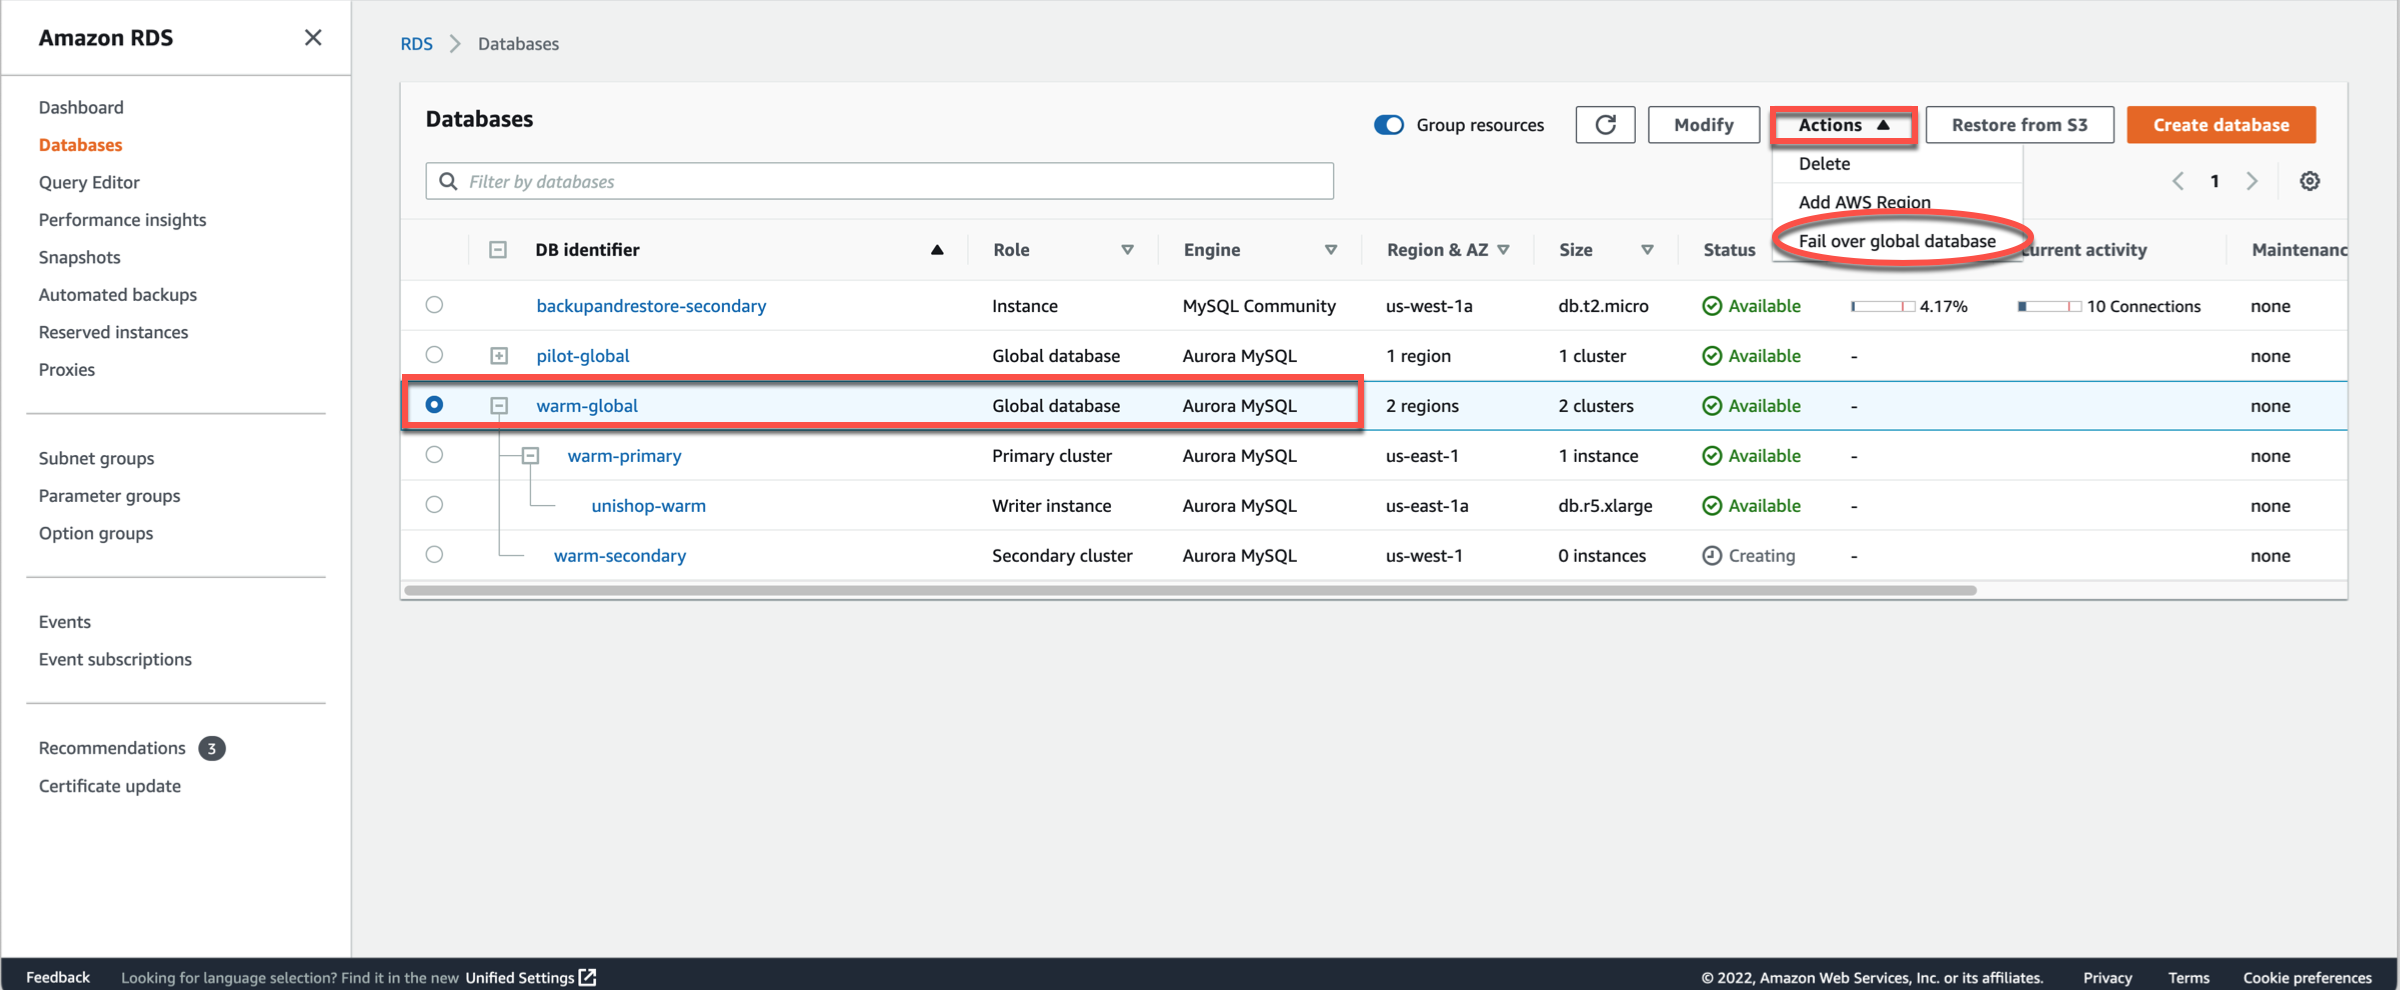
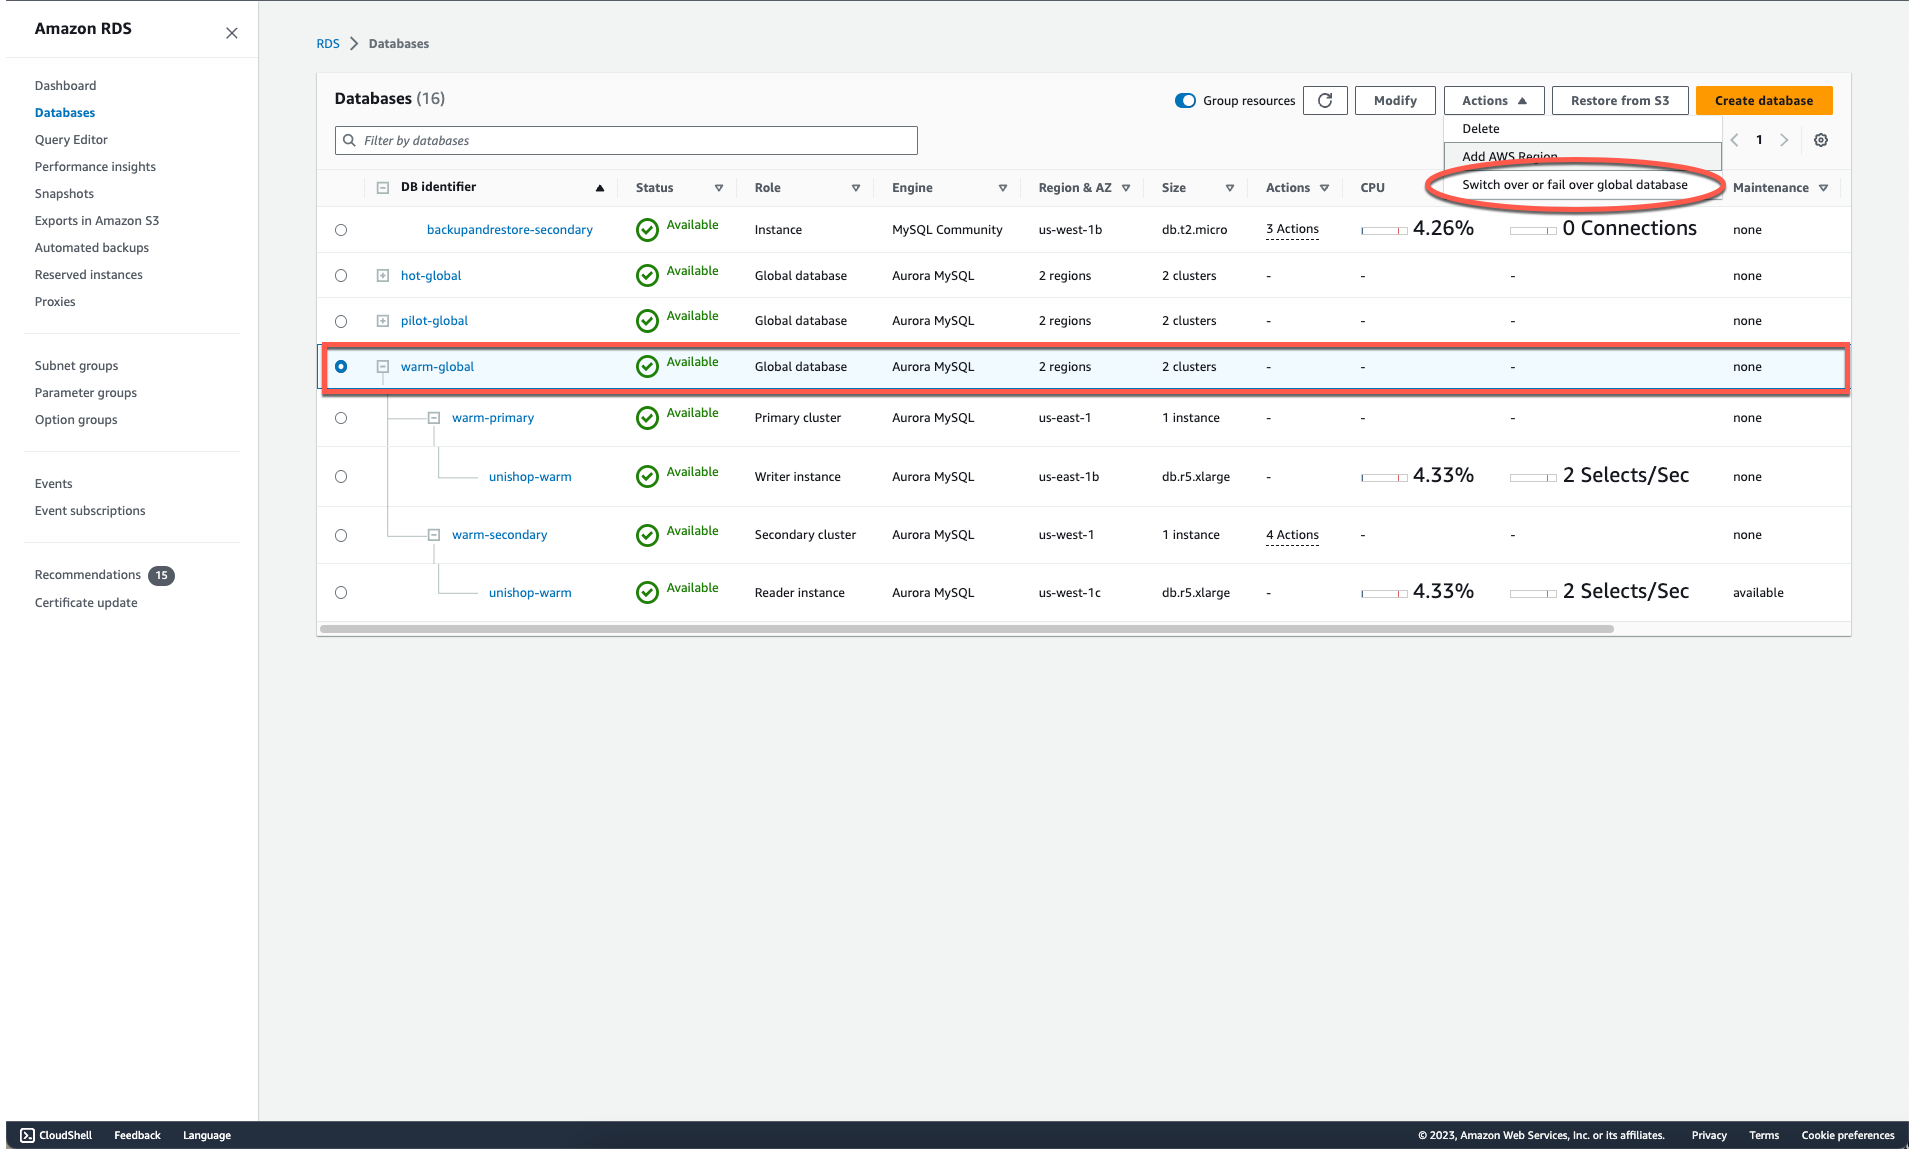
Warm Standby updates

diff --git a/content/Reliability/Disaster Recovery/Workshop_3/3-failover/3.1-aurora/_index.en.md b/content/Reliability/Disaster Recovery/Workshop_3/3-failover/3.1-aurora/_index.en.md
@@ -8,13 +8,13 @@ weight = 1
 
 With an Aurora global database, there are two different approaches to failover depending on the scenario.  
 
-**Manual unplanned failover ("detach and promote")** – To recover from an unplanned outage or to do disaster recovery (DR) testing, perform a cross-Region failover to one of the secondaries in your Aurora global database. The RTO for this manual process depends on how quickly you can perform the tasks listed in [Recovering an Amazon Aurora global database from an unplanned outage](https://docs.aws.amazon.com/AmazonRDS/latest/AuroraUserGuide/aurora-global-database-disaster-recovery.html#aurora-global-database-failover). The RPO is typically measured in seconds, but this depends on the Aurora storage replication lag across the network at the time of the failure.
+**Failover** – Use this approach to recover from an unplanned outage. With this approach, you perform a cross-Region failover to one of the secondary DB clusters in your Aurora global database. The RPO for this approach is typically a non-zero value measured in seconds. The amount of data loss depends on the Aurora global database replication lag across the AWS Regions at the time of the failure. To learn more, see [Recovering an Amazon Aurora global database from an unplanned outage](https://docs.aws.amazon.com/AmazonRDS/latest/AuroraUserGuide/aurora-global-database-disaster-recovery.html#aurora-global-database-failover).
 
-**Managed planned failover** – This feature is intended for controlled environments, such as operational maintenance and other planned operational procedures. By using managed planned failover, you can relocate the primary DB cluster of your Aurora global database to one of the secondary Regions. Because this feature synchronizes secondary DB clusters with the primary before making any other changes, RPO is 0 (no data loss). To learn more, see [Performing managed planned failovers for Amazon Aurora global databases](https://docs.aws.amazon.com/AmazonRDS/latest/AuroraUserGuide/aurora-global-database-disaster-recovery.html#aurora-global-database-disaster-recovery.managed-failover).
+**Switchover** – This operation was previously called "managed planned failover." Use this approach for controlled scenarios, such as operational maintenance and other planned operational procedures. Because this feature synchronizes secondary DB clusters with the primary before making any other changes, RPO is 0 (no data loss). To learn more, see [Performing switchovers for Amazon Aurora global databases](https://docs.aws.amazon.com/AmazonRDS/latest/AuroraUserGuide/aurora-global-database-disaster-recovery.html#aurora-global-database-disaster-recovery.managed-failover).
 
-In a true disaster scenario you will most likely use **Managed unplanned failover**, which are showcased in **Module 2: Pilot Light** and **Module 4: Hot Standby**. 
+In a true disaster scenario you will most likely use **Failover**, which are showcased in **Module 2: Pilot Light** and **Module 4: Hot Standby**. 
 
-For this workshop we will be doing a **Managed Planned Failover**.
+For this workshop we will be doing a **Switchover**.
 
 #### Promote Aurora
 
@@ -24,21 +24,21 @@ For this workshop we will be doing a **Managed Planned Failover**.
 
 {{< img a-8.png >}}
 
-1.3 Select **warm-global**, then select **Fail over global database** from the **Actions** link.
+1.3 Select **warm-global** cluster and select **Switch over or fail over global database** from **Actions**. 
 
 {{< img a-5.png >}}
 
-1.4 Select **warm-secondary** as the **Choose a secondary cluster to become primary cluster**, then click the **Fail over global database** button.
+1.4 Choose **Switchover**, select **warm-secondary** as **New primary cluster**, then click **Confirm**.
 
 {{< img a-6.png >}}
 
-{{% notice warning %}}
-You will need to wait for the database to failover before moving on to the next step.  This can take several minutes.
-{{% /notice %}}
-
-1.5 Notice the changes. The **Primary cluster** is now in **us-west-1** which has our **Writer instance** and the **Secondary Cluster** is now in **us-east-1** which has our **Reader instance**.
+1.5 When the switchover is complete, notice the changes. The **Primary cluster** is now in **us-west-1** which has our **Writer instance** and the **Secondary Cluster** is now in **us-east-1** which has our **Reader instance**.
 
 {{< img a-7.png >}}
+
+{{% notice warning %}}
+You will need to wait for the **warm-secondary** to become **Available** before moving on to the next step.  This can take several minutes.
+{{% /notice %}}
 
 {{< prev_next_button link_prev_url="../" link_next_url="../3.2-ec2/" />}}
 

diff --git a/content/Reliability/Disaster Recovery/Workshop_2/4-failover/4.1-aurora/_index.en.md b/content/Reliability/Disaster Recovery/Workshop_2/4-failover/4.1-aurora/_index.en.md
@@ -32,12 +32,12 @@ For this workshop we will be doing a **Failover**.
 
 {{< img a-4.png >}}
 
+1.5 When the failover is complete, notice the changes. The **Primary cluster** is now in **us-west-1** which has our **Writer instance** and the **Secondary Cluster** is now in **us-east-1** which has our **Reader instance**.
+
+{{< img a-6.png >}}
+
 {{% notice warning %}}
 You will need to wait for the **pilot-secondary** to become **Available** before moving on to the next step.  This can take several minutes.
 {{% /notice %}}
-
-1.5 Notice the changes. The **Primary cluster** is now in **us-west-1** which has our **Writer instance** and the **Secondary Cluster** is now in **us-east-1** which has our **Reader instance**.
-
-{{< img a-6.png >}}
 
 {{< prev_next_button link_prev_url="../" link_next_url="../4.2-ec2/" />}}
